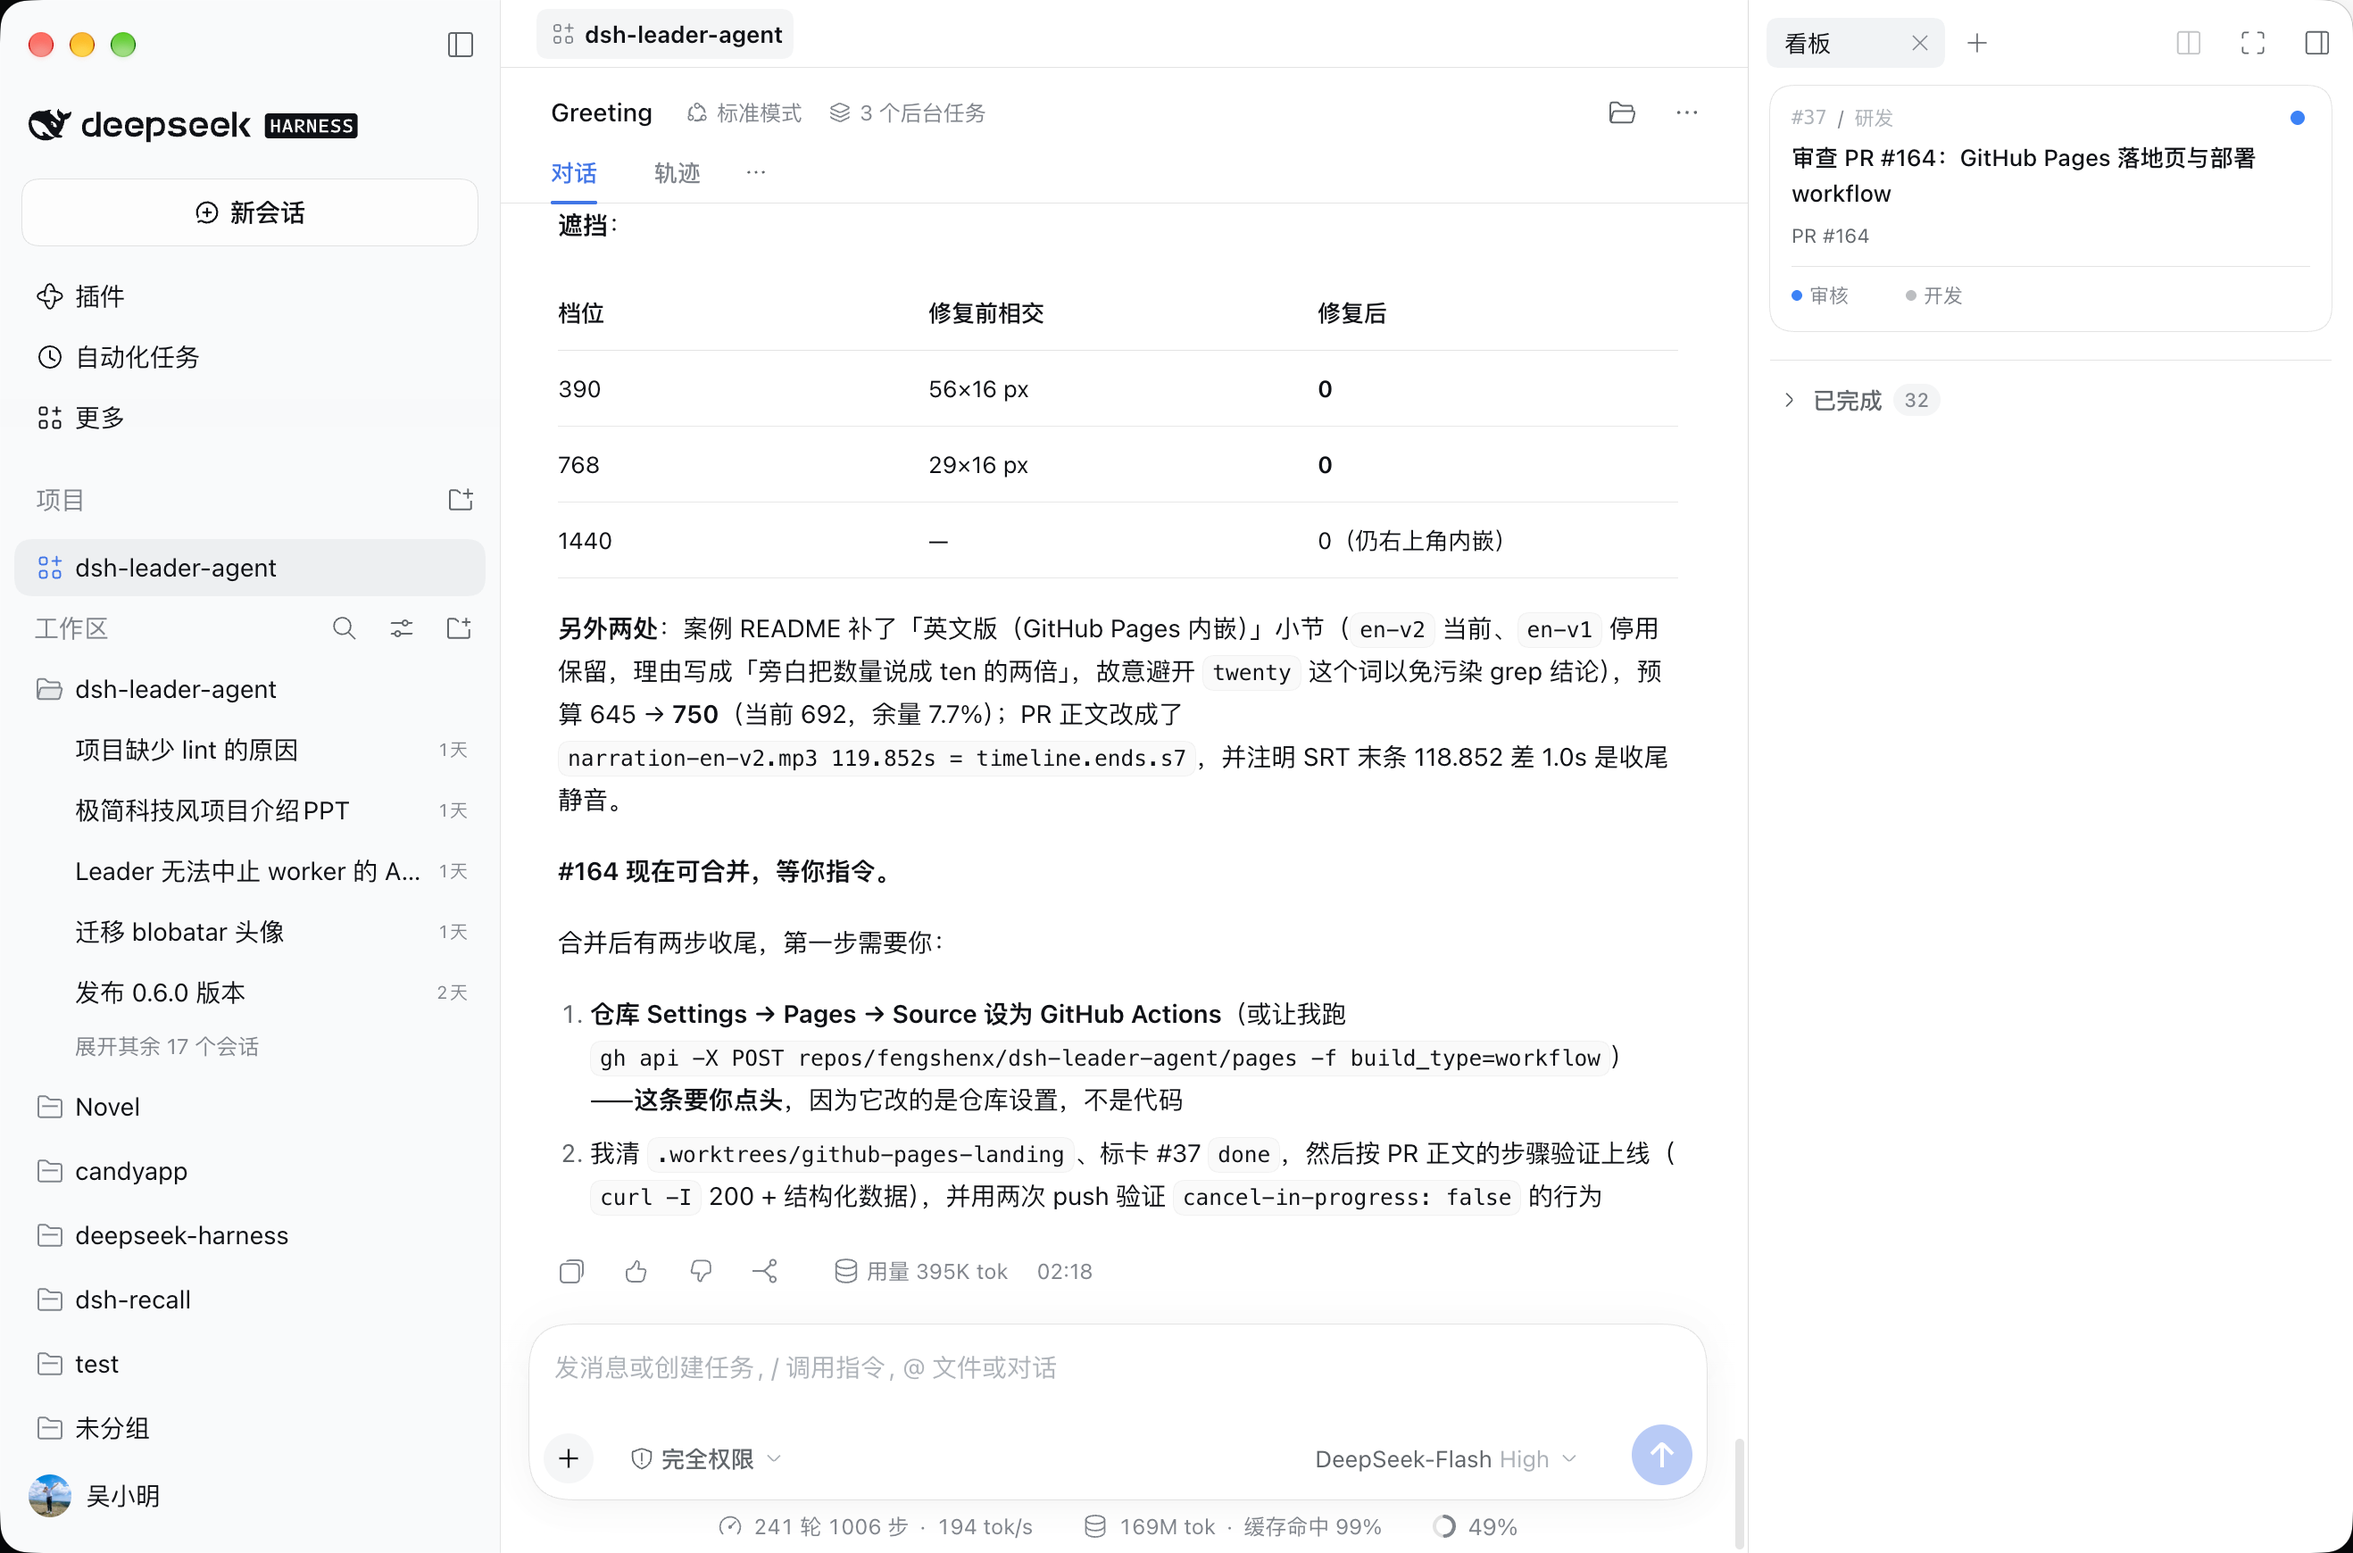
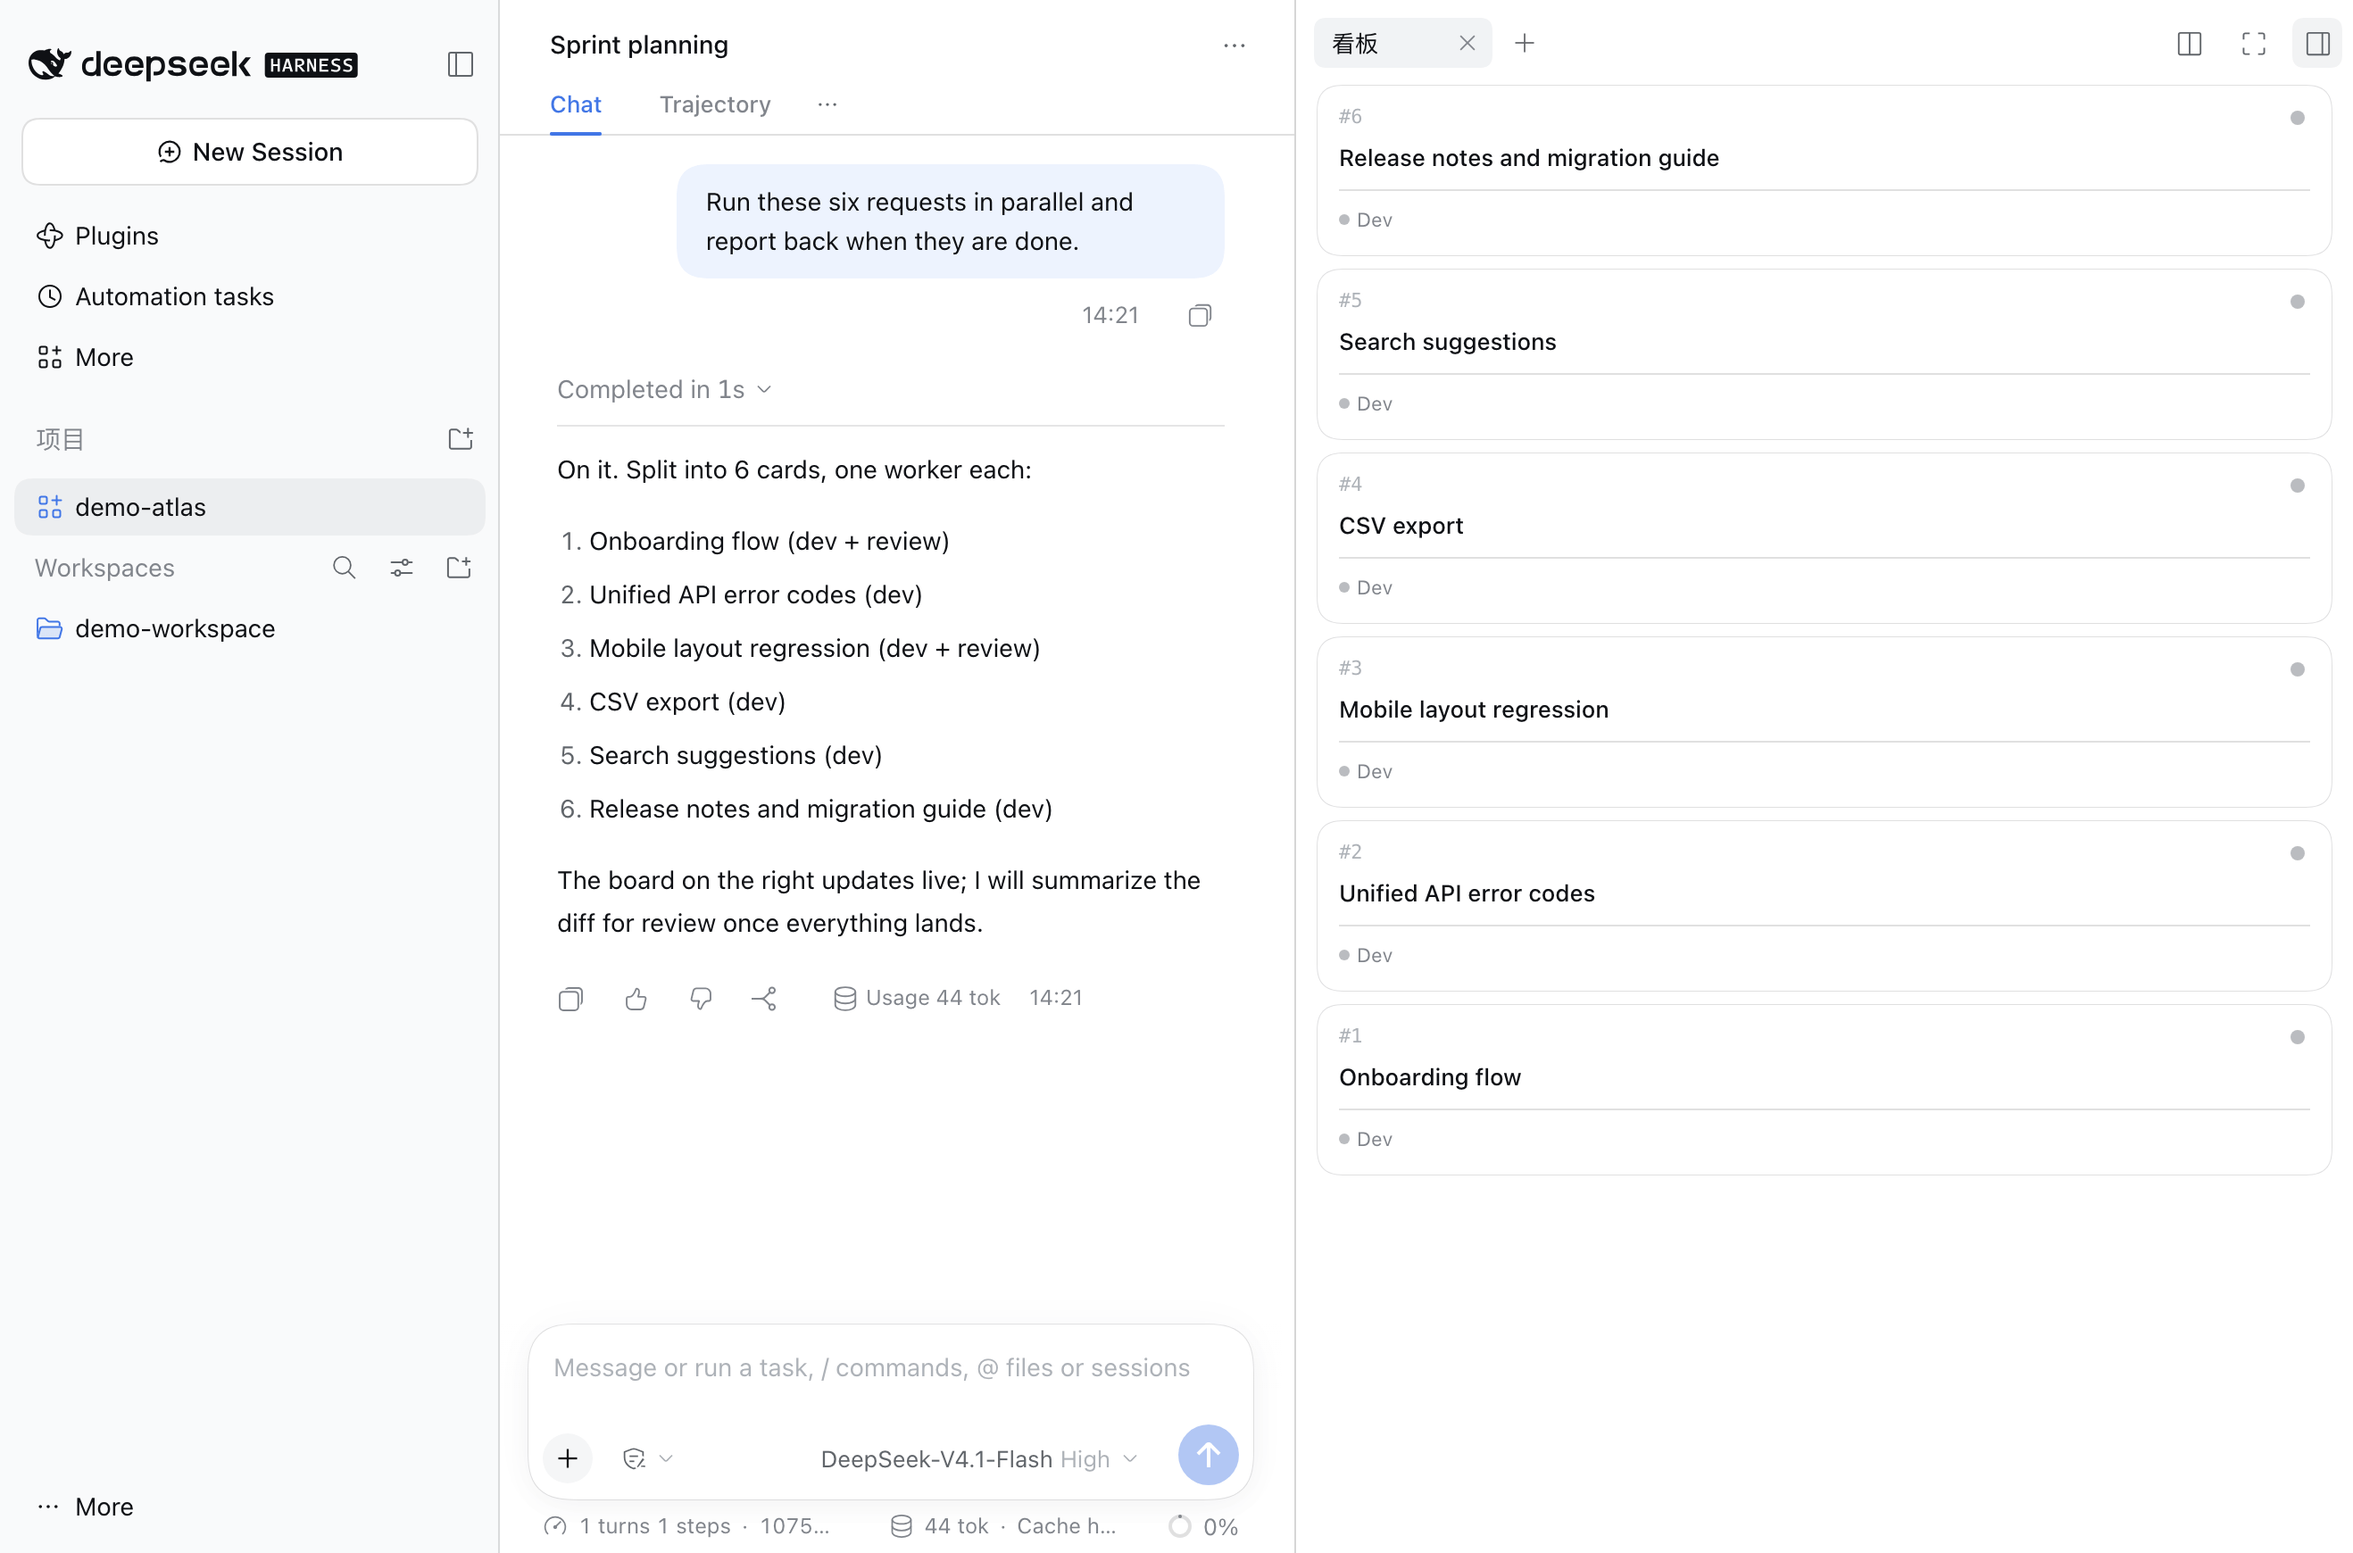
fix(assets): 换用演示数据重截的看板图，补 1200×630 OG 图
旧图是真实工作区截图，含真实姓名/头像、私有项目名、内部评审内容与真实 token
用量，而 docs/assets/readme/board.png 经 raw 公开、还是站点 og:image。

新图用临时 DSH_HOME + 本地 mock provider 起实例，seed 演示项目 demo-atlas、
工作区 demo-workspace、会话 Sprint planning 与 6 张演示卡片，按 1318×870@2x
截出 2636×1740，pngquant 压到 114,534 B。所有数字来自 mock，不接真实 API。

另出 board-og.png（1200×630，1.91:1）专给 og:image/twitter:image，页面与
README 继续用全图；meta 补 og:image:width/height/type/alt。

diff --git a/site/index.html b/site/index.html
@@ -12,12 +12,17 @@
 <meta property="og:title" content="dsh-leader-agent — one Leader drives a team of coding agents">
 <meta property="og:description" content="Leader/worker orchestration for DeepSeek Harness: dispatch, board, review. Run ten features in parallel instead of babysitting each one.">
 <meta property="og:url" content="https://fengshenx.github.io/dsh-leader-agent/">
-<meta property="og:image" content="https://raw.githubusercontent.com/fengshenx/dsh-leader-agent/main/docs/assets/readme/board.png">
+<meta property="og:image" content="https://raw.githubusercontent.com/fengshenx/dsh-leader-agent/main/docs/assets/readme/board-og.png">
+<meta property="og:image:type" content="image/png">
+<meta property="og:image:width" content="1200">
+<meta property="og:image:height" content="630">
+<meta property="og:image:alt" content="dsh-leader-agent: project tree, the Leader's conversation, and the delivery board">
 <meta property="og:site_name" content="dsh-leader-agent">
 <meta name="twitter:card" content="summary_large_image">
 <meta name="twitter:title" content="dsh-leader-agent — one Leader drives a team of coding agents">
 <meta name="twitter:description" content="Leader/worker orchestration for DeepSeek Harness: dispatch, board, review.">
-<meta name="twitter:image" content="https://raw.githubusercontent.com/fengshenx/dsh-leader-agent/main/docs/assets/readme/board.png">
+<meta name="twitter:image" content="https://raw.githubusercontent.com/fengshenx/dsh-leader-agent/main/docs/assets/readme/board-og.png">
+<meta name="twitter:image:alt" content="dsh-leader-agent: project tree, the Leader's conversation, and the delivery board">
 <script type="application/ld+json">
 {
   "@context": "https://schema.org",
